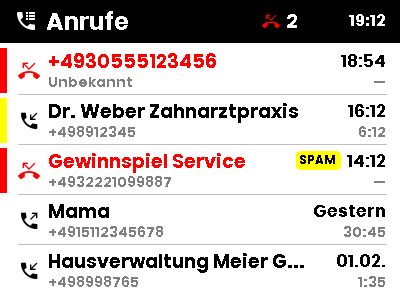
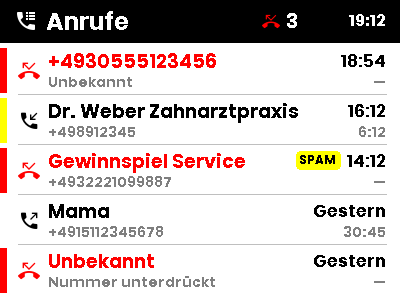
fix: render withheld callers without a blank line
A withheld caller comes back from the box with no number at all and its own
placeholder in the name field -- 3 of 16 calls on a real FRITZ!Box. The
blueprint printed the number underneath the name whenever a name was present,
which for those rows meant an empty line.

The record itself was already correct, and the coordinator already skips
lookups for a record with no number, so this is only the template. Adds the
case to the preview sample data so the rendered example shows it.

Changed region(s): [[0.12, 0.84, 0.96, 0.96], [0.0, 0.81, 0.12, 0.99], [0.72, 0.03, 0.75, 0.09]]

diff --git a/scripts/preview-blueprint.py b/scripts/preview-blueprint.py
@@ -56,8 +56,8 @@ def _record(**overrides: object) -> dict:
 
 
 # One of each case the layout has to survive: an unknown number, a long VIP
-# name, a spam-scored caller, an outgoing call and a name long enough to be
-# truncated.
+# name, a spam-scored caller, an outgoing call, a withheld caller and a name
+# long enough to be truncated.
 SAMPLE = [
     _record(
         id="9",
@@ -94,6 +94,17 @@ SAMPLE = [
         icon="mdi:phone-outgoing",
         duration=1845,
         timestamp=(NOW - timedelta(days=1)).isoformat(),
+    ),
+    # A withheld caller, exactly as a real FRITZ!Box reports one: no number at
+    # all, and the box's own placeholder in the name field.
+    _record(
+        id="5b",
+        type="missed",
+        number="",
+        name="Unbekannt",
+        name_source="fritzbox",
+        icon="mdi:phone-missed",
+        timestamp=(NOW - timedelta(days=1, hours=4)).isoformat(),
     ),
     _record(
         id="5",

diff --git a/AGENTS.md b/AGENTS.md
@@ -122,8 +122,13 @@ get wrong:
 sample data and no Home Assistant, reimplementing those four helpers so it
 renders exactly the shipped text. Run it after touching the template; the images
 in `docs/images/` come from it. The sample data deliberately covers an unknown
-number, a long VIP name, a spam-scored caller, an outgoing call and a name long
-enough to truncate.
+number, a long VIP name, a spam-scored caller, an outgoing call, a withheld
+caller and a name long enough to truncate.
+
+**A withheld caller has an empty `number` and the box's own placeholder in
+`name`** (3 of 16 calls on a real box). `_async_resolve` already skips a record
+with no number, so nothing is looked up for it; templates have to handle it
+too, or they print a blank line where the number goes.
 
 ## Brand assets
 
